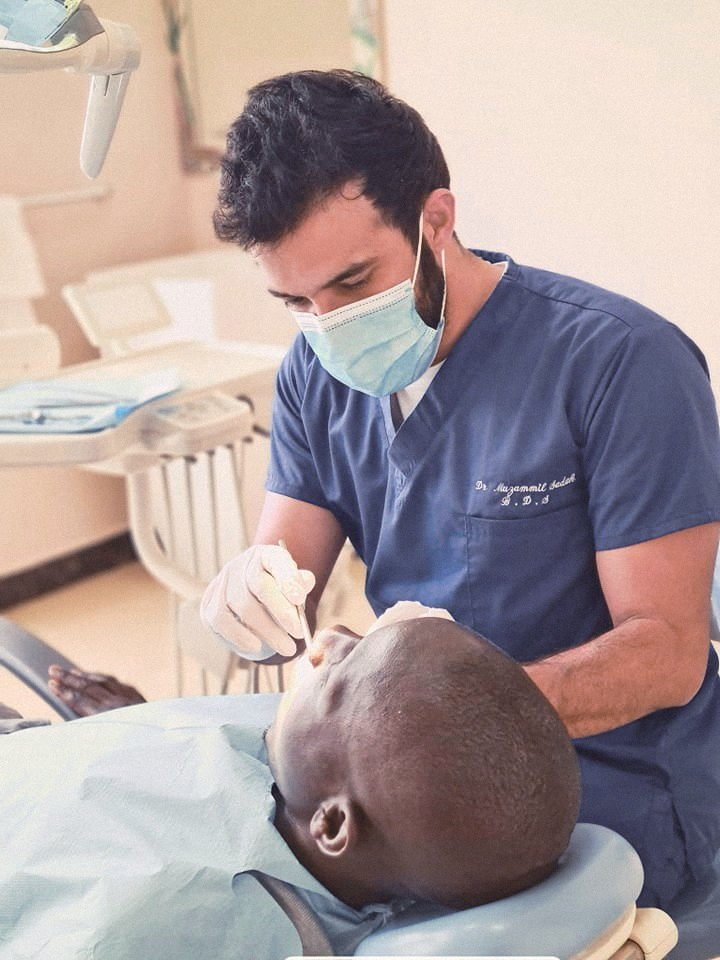
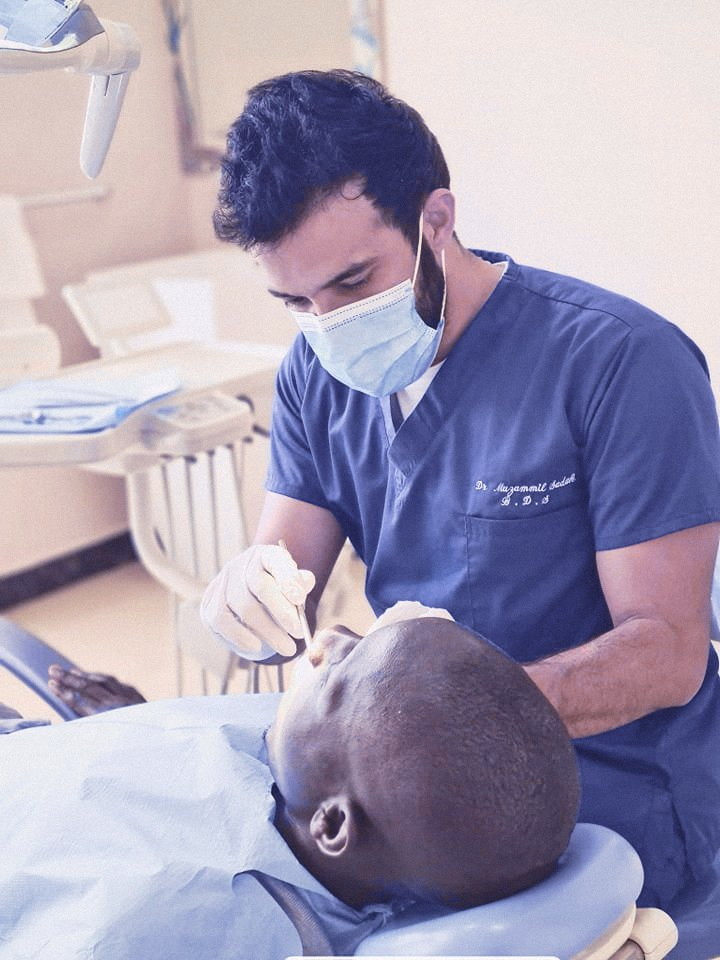
Dentistry concept: blue-tint the clinic photos to match the page palette
Adds a gradient-map tint (ink navy, periwinkle, blue-white) to the shared
photo grade, at half strength on skin so faces stay natural. The before
and after smile photo is still graded as one frame.

Claude-Session: https://claude.ai/code/session_01K4mrAq9xM3ZFpmdHWxR19b

diff --git a/README.md b/README.md
@@ -60,4 +60,4 @@ Google Maps links use a geographic coordinate for Kilifi Creek (-3.63629, 39.852
 
 ## Family Dentistry Nairobi concept (`dentistry/`)
 
-A proposed landing page redesign for Family Dentistry Nairobi, published at https://asiyetajwa.github.io/me/dentistry/ for client review. It is self-contained (its own fonts, images and inline CSS/JS) and marked `noindex` so it does not compete with the clinic's live site in search. Photos are the clinic's own, colour-graded to the page palette with one shared recipe (the before and after smile photo was graded as a single frame, so the comparison stays honest). The tooth mark is redrawn as SVG from the clinic's logo.
+A proposed landing page redesign for Family Dentistry Nairobi, published at https://asiyetajwa.github.io/me/dentistry/ for client review. It is self-contained (its own fonts, images and inline CSS/JS) and marked `noindex` so it does not compete with the clinic's live site in search. Photos are the clinic's own, colour-graded with one shared recipe and a blue tint (navy shadows, periwinkle mids, blue-white highlights; skin takes half the tint) (the before and after smile photo was graded as a single frame, so the comparison stays honest). The tooth mark is redrawn as SVG from the clinic's logo.
